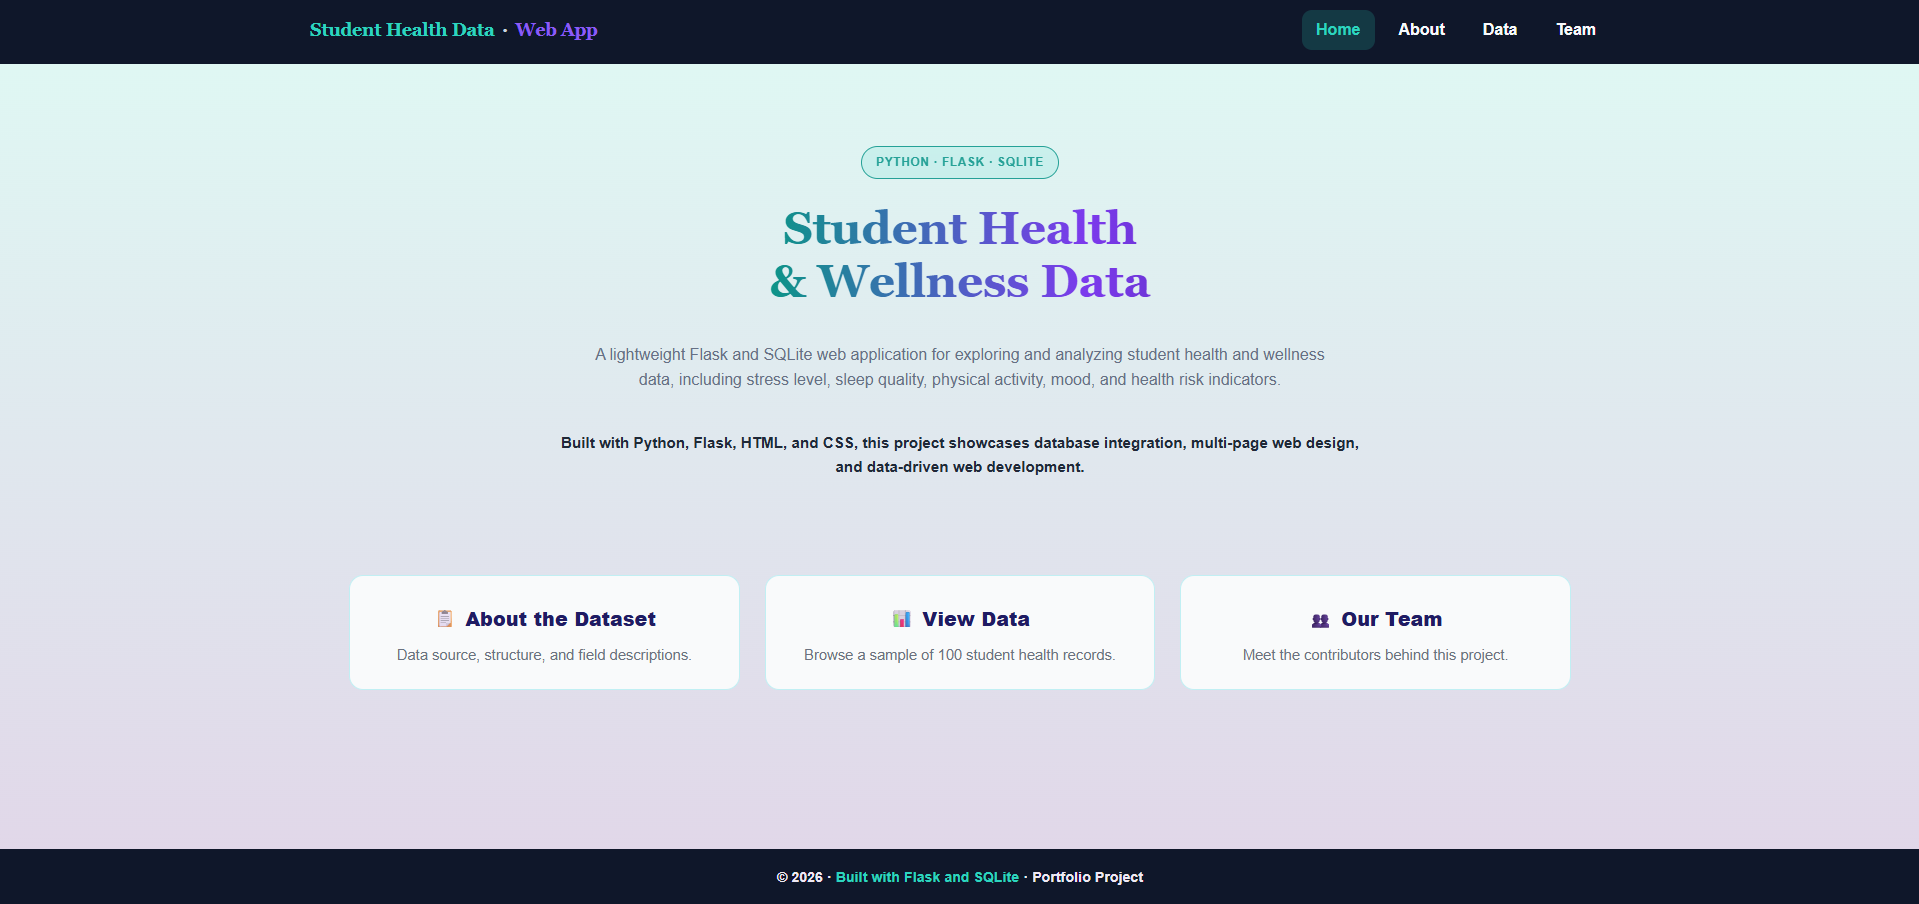
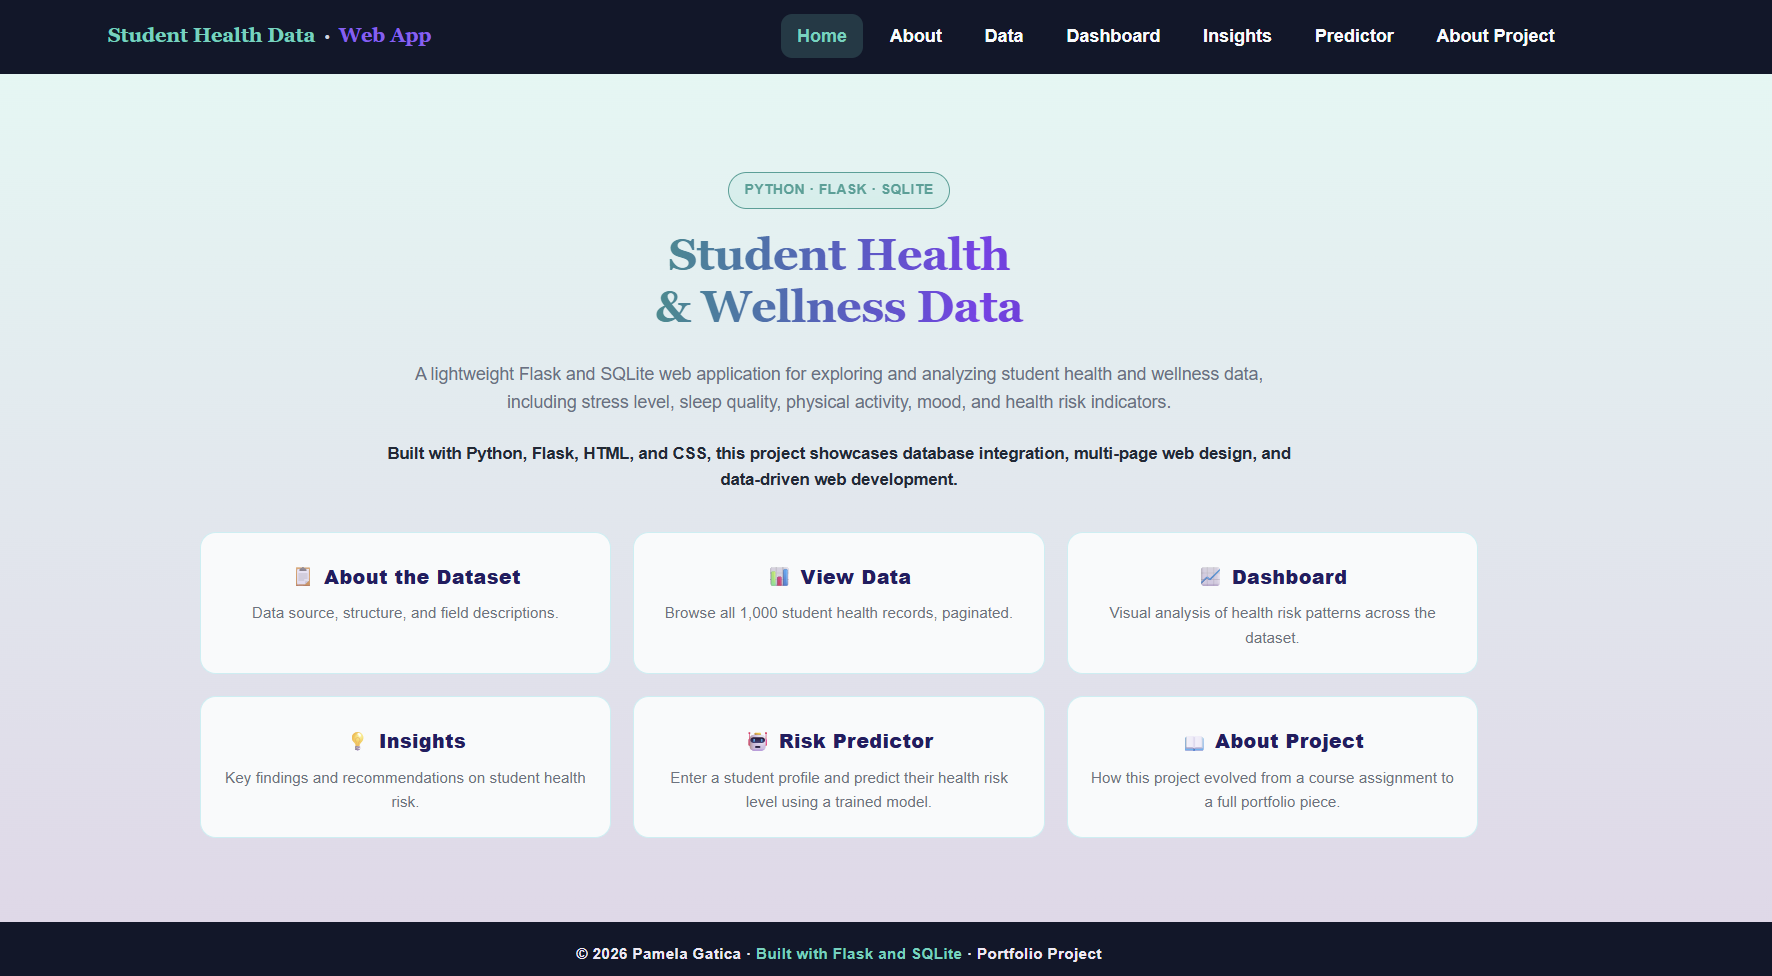
Update README author description and preview image
- Remove 'Student' title from author bio
- Update homepage preview screenshot
- Remove data.png screenshot

diff --git a/README.md b/README.md
@@ -8,10 +8,6 @@ A full-stack data web application built with Flask and SQLite for exploring and 
   <img src="images/home.png" width="800">
 </p>
 
-<p align="center">
-  <img src="images/data.png" width="800">
-</p>
-
 ## Features
 
 - **Filterable data table** — browse all 1,000 student records with pagination and filters by gender, activity level, sleep quality, mood, and health risk
@@ -142,6 +138,6 @@ After the course ended, I continued developing it independently to build it into
 ## Author
 
 **Pamela Gatica**
-Data Analytics Student | Background in Psychology & HR
+Data Analytics | Psychology & HR
 
 Interested in combining data analytics, backend development, and machine learning to turn raw data into accessible, meaningful applications.
